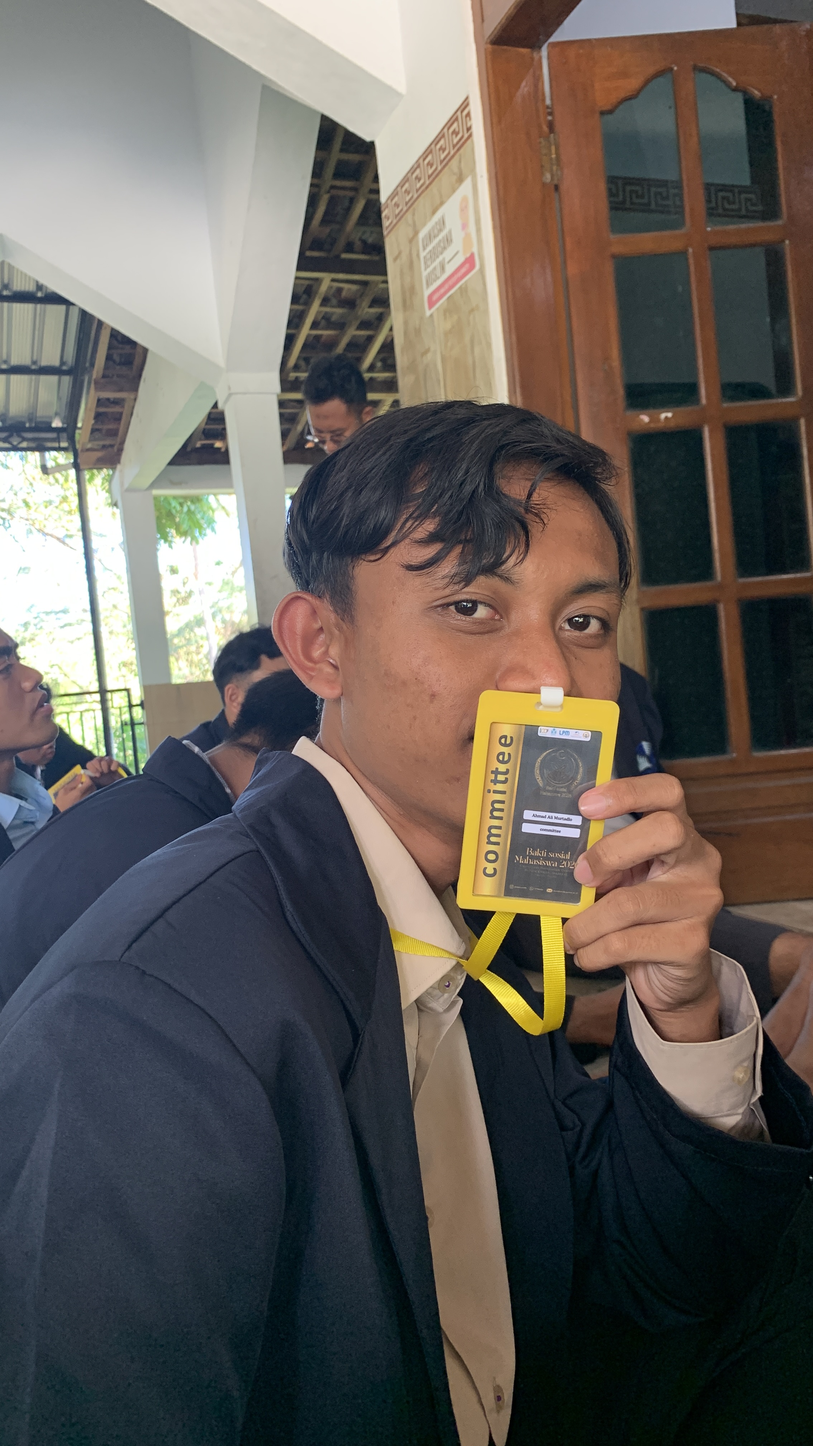
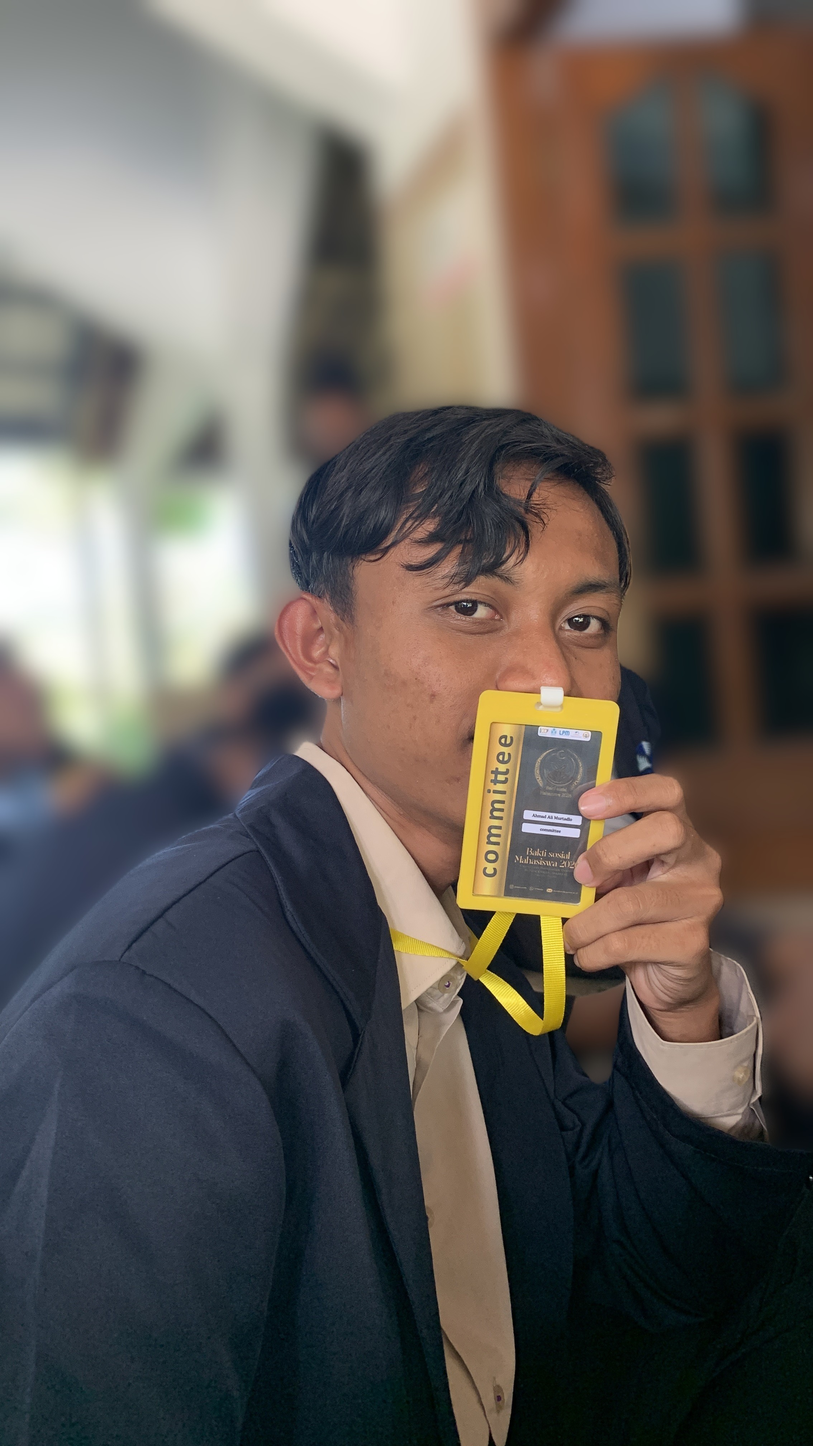
3D Maker With a .html n .css n .js

diff --git a/style.css b/style.css
@@ -25,12 +25,12 @@ section.tilt-box {
 
 /* Mengatur ukuran dan gambar background tanah */
 .card-bg {
-    width: 300px;
-    height: 450px;
-    background-image: url('Tanah.png');
+    width: 500px;
+    height: 650px;
+    background-image: url('Me.jpeg');
     background-size: cover;
     background-position: center;
-    border-radius: 15px;
+    border-radius: 20px;
     box-shadow: 0px 0px 50px rgba(0, 0, 0, 0.6);
 }
 
@@ -40,7 +40,7 @@ section.tilt-box {
     top: 50%;
     left: 50%;
     width: 75%; /* Diperkecil dari 85% agar pas di dalam frame background */
-    border-radius: 10px; /* Bikin pojokan fotomu sedikit melengkung rapi */
+    border-radius: 25px; /* Bikin pojokan fotomu sedikit melengkung rapi */
     
     /* RAHASIA 3D: translate untuk geser ke tengah, translateZ untuk ngangkat foto maju ke depan */
     transform: translate(-50%, -50%) translateZ(60px); 
